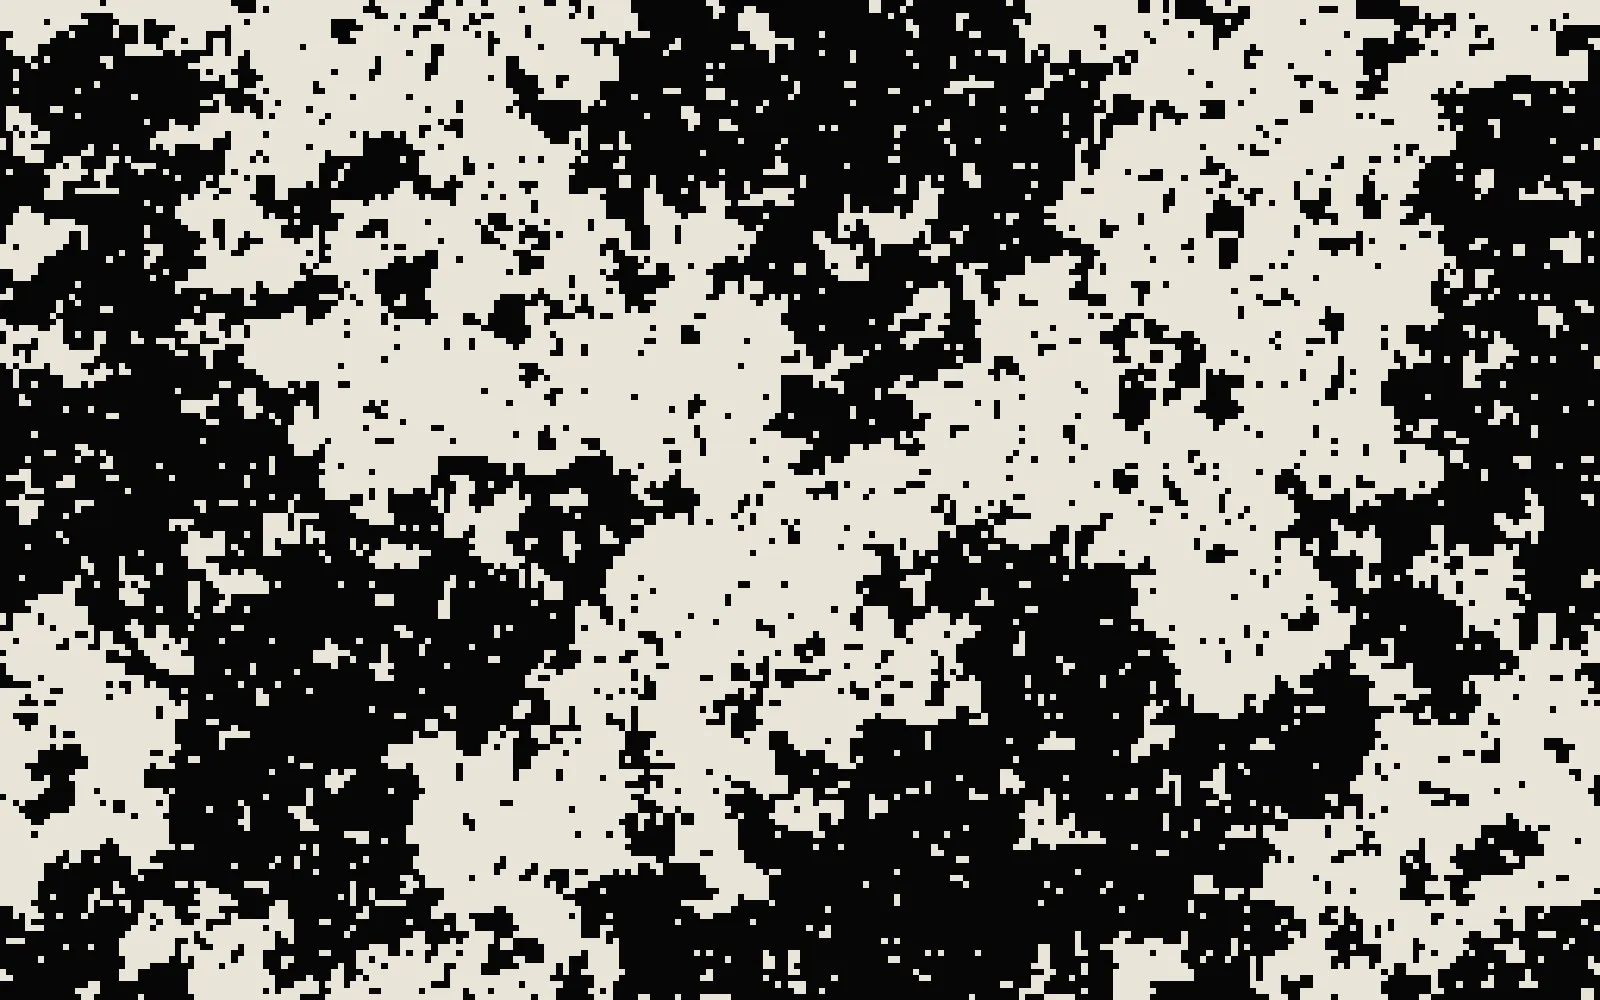
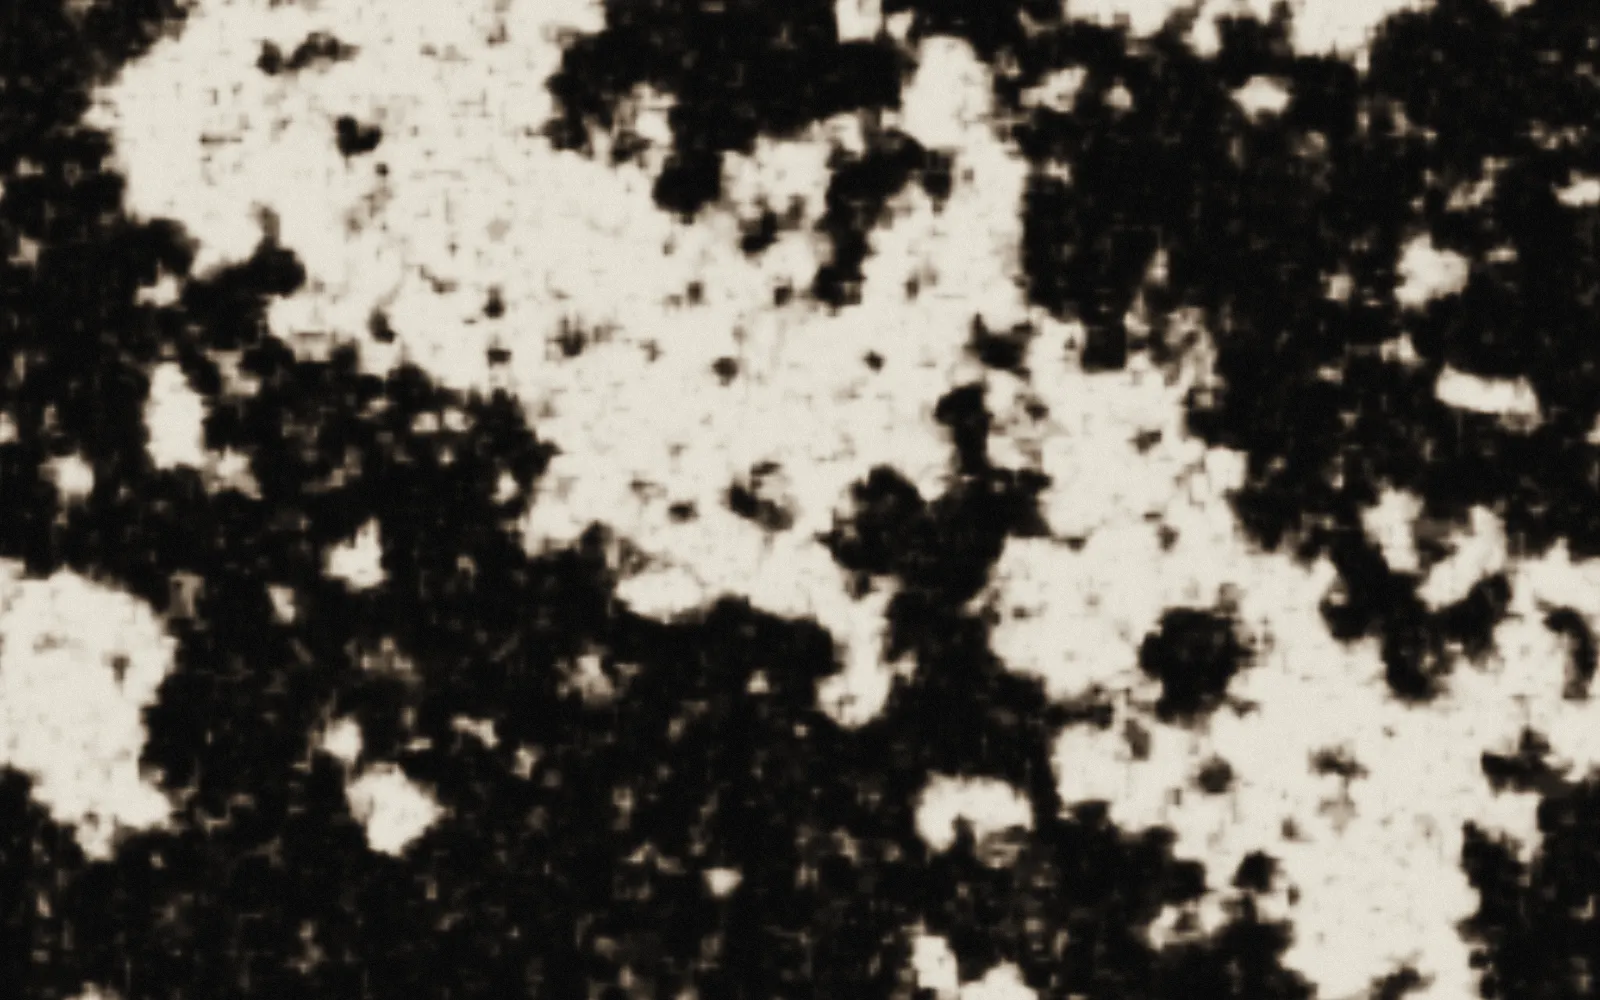
forge/spin: ink wash — smoothed field, WebGL shader with copper walls and grain, settles dark
- spins blended over recent frames (weight follows temperature: fast when hot,
  slow when cold) and drawn by a WebGL2 shader: soft upscale, contrast curve,
  ground→bone with a copper tint on the domain walls, per-frame film grain;
  Canvas 2D fallback draws the same field without grain or copper
- new --copper-rgb token beside bone and ground
- worker takes an external field per tick; the page applies −0.015 only in a
  window just below the critical point, so critical clusters stay unbiased,
  the ordered phase reliably picks ground, and the last bone islands freeze in
- Save reads the rendered canvas; poster regenerated from the new look
- QA asserts the cold end settles dark and reports the renderer; spec addendum

diff --git a/public/forge/spin/worker.js b/public/forge/spin/worker.js
@@ -8,6 +8,7 @@ let sim = null;
 let n = 0;
 let memory = null;
 let maxSweeps = 4;
+let h = 0;
 
 function spinsView() {
   // Zero-copy view into WASM memory; must be re-created if memory grows.
@@ -22,13 +23,18 @@ self.onmessage = async (e) => {
       memory = out.memory;
       n = msg.n;
       maxSweeps = msg.maxSweeps ?? 4;
-      sim = new IsingWasm(n, 0, 1.0, 0.0, BigInt(msg.seed >>> 0));
+      // msg.h: a whisper of external field so the cold phase is reproducible (negative favours -1).
+      h = msg.h ?? 0.0;
+      sim = new IsingWasm(n, 0, 1.0, h, BigInt(msg.seed >>> 0));
       sim.randomise();
       self.postMessage({ type: 'ready', n });
       return;
     }
     if (msg.type === 'tick') {
       if (!sim) return;
+      // The page ramps the external field with temperature; only touch the
+      // engine when it actually changes.
+      if (typeof msg.h === 'number' && msg.h !== h) { h = msg.h; sim.set_params(1.0, h); }
       const start = performance.now();
       let sweeps = 0;
       do {

diff --git a/src/styles/tokens.css b/src/styles/tokens.css
@@ -28,6 +28,7 @@
   /* rgb triplets for the few alpha uses (gradients, glow, ghost stroke) */
   --ground-rgb: 6 6 6;
   --bone-rgb: 232 228 216;
+  --copper-rgb: 154 106 62;   /* Spin's domain-wall tint; only the ink-wash shader reads it */
   --white-rgb: 255 255 255;
 
   /* roles */

diff --git a/docs/superpowers/specs/2026-09-24-spin-design.md b/docs/superpowers/specs/2026-09-24-spin-design.md
@@ -81,3 +81,13 @@ Branch `forge/spin`, one PR into `main`. Merge deploys. Vault repo overview and 
 
 - Section renamed from `/lab` to `/forge` (Connor's choice from forge / magic / runes / rites). All paths above read `/forge/spin`.
 - Photosensitivity gate: the page opens on a full-screen notice ("THIS PAGE FLASHES", Cinzel uppercase, with a plain-language sentence and Continue / Back). The worker is not created and nothing moves until Continue is pressed. The choice is remembered for the browser session only (`sessionStorage`, wrapped in try/catch), so a return visit in a new tab shows the notice again. The QA script asserts that no frames flow before the gate and clicks through it.
+
+## Ink wash (approved by Connor 2026-09-24, after a visual comparison of four directions)
+
+Direction chosen: **B, ink wash**, settling dark, with copper on the domain walls. Physics unchanged; the change is rendering plus a small external field.
+
+- **Field.** The page blends each new frame into a smoothed field (exponential moving average). The blend weight follows temperature: 0.6 when hot, so the noise stays a live stipple, down to 0.18 when cold, so the domains breathe.
+- **Shader.** WebGL2 fragment shader: cover-fit of the 256² field texture with linear filtering plus a light 5-tap cross blur; contrast curve `0.5 + 0.5·tanh(4(t − 0.5))` so the wash stays inky rather than grey; palette `mix(ground, bone, t)` plus a copper tint weighted by `(4t(1−t))^1.5 · 0.35` (strongest on domain walls); per-pixel film grain of ±0.02 that changes every frame. `preserveDrawingBuffer` is on so Save and the poster script can read the canvas. Canvas 2D fallback draws the same field without copper or grain.
+- **Colours** come from tokens: `--ground-rgb`, `--bone-rgb` and a new `--copper-rgb: 154 106 62`, read with the same fallback mechanism as the other two.
+- **Settling dark.** The worker accepts an external field with each tick (`sim.set_params(1, h)` when it changes). `h` is 0 at and above the critical point (2.269), so the critical clusters are unbiased; −0.015 in a window just below it (ramp in 2.27→2.0, full 2.0→1.7, ramp out 1.7→1.4); 0 when cold, so the last bone islands freeze in rather than erode. Measured over gradual scrolls: the cold end always has ground in the majority, with between none and roughly a third of the screen left as bone islands, different every visit.
+- **QA.** `scripts/qa-spin.mjs` additionally asserts the cold end has `upFraction < 0.45` and reports the active renderer. The poster is regenerated from the new look with `npm run poster:spin`.
